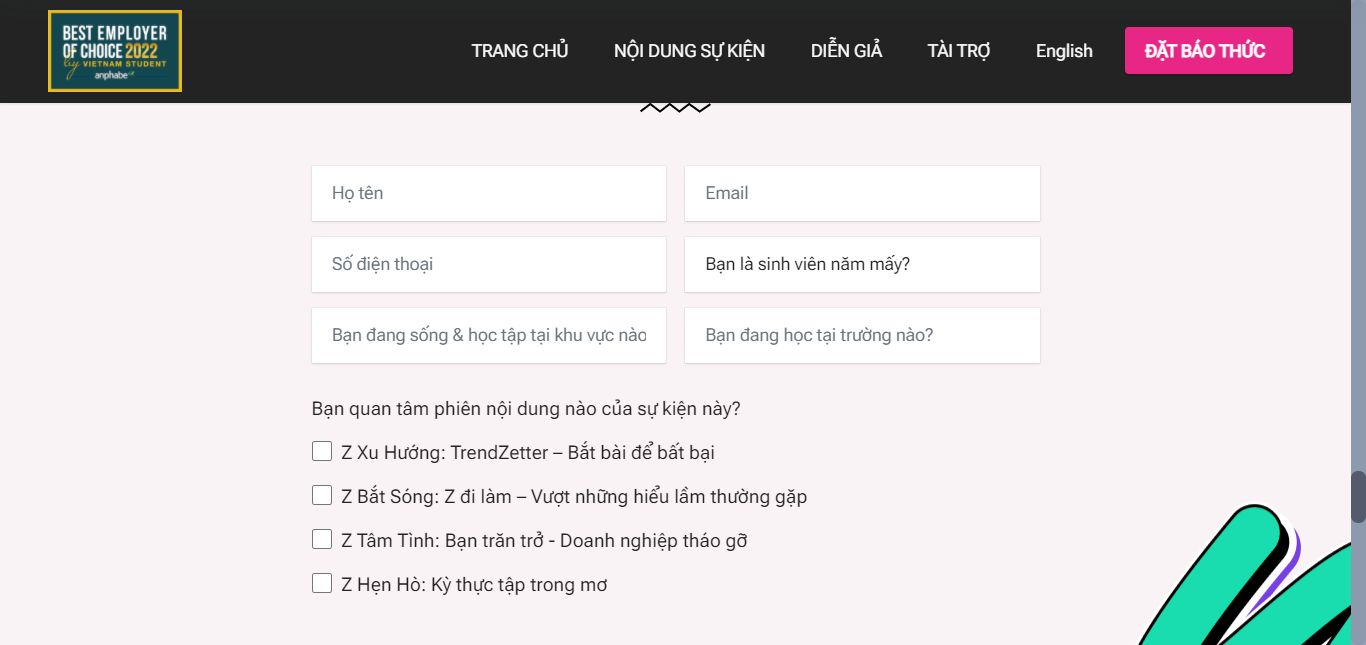
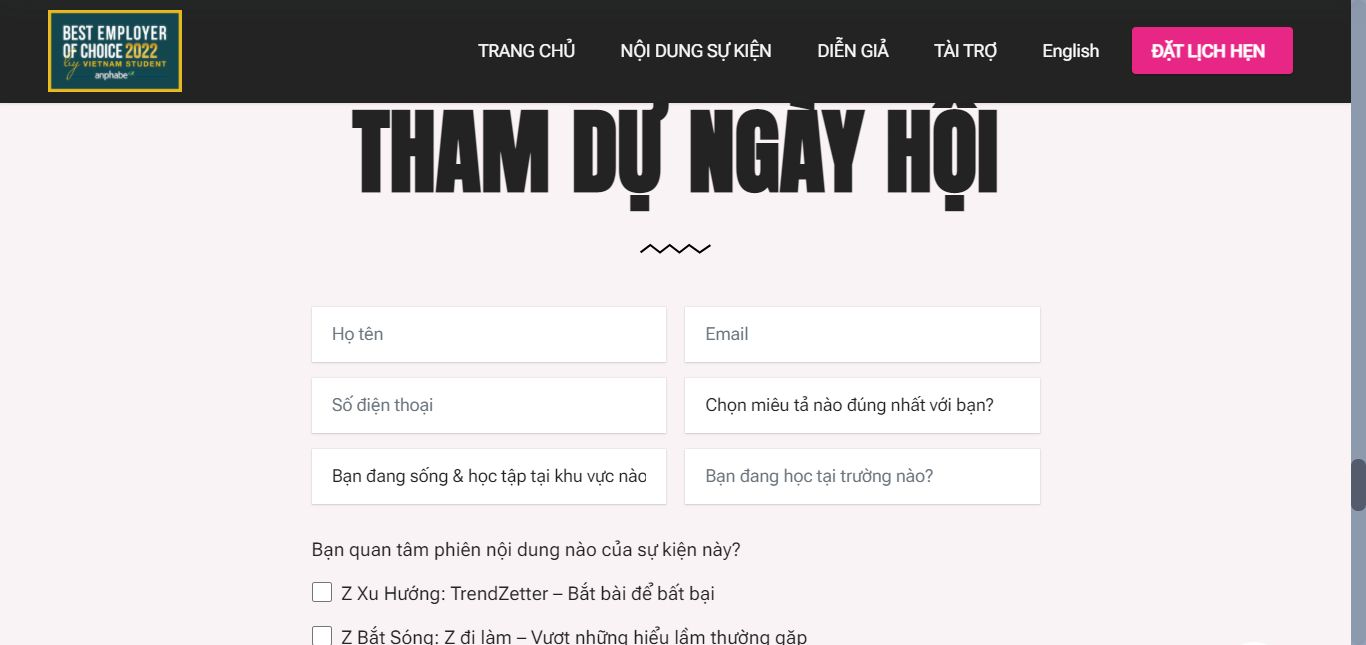
update

diff --git a/index.html b/index.html
@@ -71,10 +71,12 @@
                     <li class="nav-item"><a class="nav-link link text-white display-4" href="index.html#diengia">DIỄN GIẢ</a>
                     </li><li class="nav-item"><a class="nav-link link text-white display-4" href="index.html#taitro">TÀI TRỢ</a></li><li class="nav-item"><a class="nav-link link text-white display-4" href="/english/index.html">English</a></li></ul>
                 
-                <div class="navbar-buttons mbr-section-btn"><a class="btn btn-primary display-4" href="https://mobiri.se"><span class="ti-alarm-clock mbr-iconfont mbr-iconfont-btn"></span>ĐẶT BÁO THỨC</a></div>
+                <div class="navbar-buttons mbr-section-btn"><a href="javascript:OpenModal('datlichhen')
+" class="btn btn-primary display-4" data-bs-toggle="modal" data-bs-target="#datlichhen"><span class="ti-alarm-clock mbr-iconfont mbr-iconfont-btn"></span>ĐẶT LỊCH HẸN</a></div>
             </div>
         </div>
     </nav>
+    
 </section>
 
 <section data-bs-version="5.1" class="header4 cid-t6mKR0S0a8 mbr-fullscreen" id="header4-33">
@@ -419,8 +421,8 @@
             <h3 class="mbr-section-title mbr-fonts-style align-center text-style display-2">ĐĂNG KÝ NGAY</h3>
         </div>
         <div class="row justify-content-center mt-4">
-            <div class="col-lg-8 mx-auto">
-                <form class="mbr-form form-with-styler form-register" action="https://mobirise.eu/" data-verified="">
+            <div class="col-lg-8 mx-auto" data-form-type="anphabe">
+                <form class="form-with-styler form-register" action="https://mobirise.eu/" data-verified="">
                     <input type="hidden" name="utm_source" id="utm_source-dangky" value="">
                     <input type="hidden" name="utm_medium" id="utm_medium-dangky" value="">
                     <input type="hidden" name="utm_campaign" id="utm_campaign-dangky" value="">
@@ -445,40 +447,49 @@
                             <input type="text" name="mail" placeholder="Email" data-form-field="mail" data-required="true" class="form-control" value="" id="mail-dangky">
                         </div>
                         <div class="col-md-6 col-sm-12 form-group mb-3" data-for="name">
-                            <input type="text" name="tel" placeholder="Số điện thoại" data-form-field="tel" class="form-control" value="" id="tel-dangky">
+                            <input type="text" name="tel" data-required="true" placeholder="Số điện thoại" data-form-field="tel" class="form-control" value="" id="tel-dangky">
                         </div>
                         <div class="col-md col-sm-12 form-group mb-3" data-for="year">
-                            <select id="year-dangky" name="year" data-form-field="year" class="form-control" value="">
-                                <option value="">Bạn là sinh viên năm mấy?</option>
-                                <option value="1">Năm 1</option>
-                                <option value="2">Năm 2</option>
-                                <option value="3">Năm 3</option>
-                                <option value="namcuoi">Năm cuối</option>
-                                <option value="totnghiep">Đã tốt nghiệp</option>
+                            <select id="year-dangky" name="year" data-form-field="year" required="" data-required="true" class="form-control" value="">
+                                <option value="">Chọn miêu tả nào đúng nhất với bạn?</option>
+                                <option value="Vẫn còn đang học, chưa lên năm cuối">Vẫn còn đang học, chưa lên năm cuối</option>
+                                <option value="Đang học năm cuối và/hoặc đi thực tập">Đang học năm cuối và/hoặc đi thực tập</option>
+                                <option value="Mới tốt nghiệp &amp; đang tìm việc">Mới tốt nghiệp &amp; đang tìm việc</option>
+                                <option value="Tốt nghiệp trong vòng 1 năm &amp; đang đi làm">Tốt nghiệp trong vòng 1 năm &amp; đang đi làm</option>
+                                <option value="Không thuộc các miêu tả trên">Không thuộc các miêu tả trên</option>
+
                             </select>
                         </div>
                         <div class="col-md-6 col-sm-12 form-group mb-3" data-for="city">
-                            <input type="text" name="city" placeholder="Bạn đang sống &amp; học tập tại khu vực nào?" data-form-field="city" class="form-control" value="" id="city-dangky">
+                            <select id="city-dangky" name="city" data-form-field="city" required="" data-required="true" class="form-control" value="">
+                               <option value="" selected="">Bạn đang sống &amp; học tập tại khu vực nào?</option>
+                               <option value="Thành phố Hồ Chí Minh">Thành phố Hồ Chí Minh</option>
+                               <option value="Hà Nội">Hà Nội</option>
+                               <option value="Hải Phòng">Hải Phòng</option>
+                               <option value="Đà Nẵng">Đà Nẵng</option>
+                               <option value="Cần Thơ">Cần Thơ</option>
+                               <option value="Khu vực khác">Khu vực khác</option>
+                            </select>
                         </div>
                         <div class="col-md-6 col-sm-12 form-group mb-4" data-for="school">
-                          <input type="text" name="school" placeholder="Bạn đang học tại trường nào?" data-form-field="school" class="form-control" value="" id="school-dangky">
+                          <input type="text" name="school" data-required="true" placeholder="Bạn đang học tại trường nào?" data-form-field="school" class="form-control" value="" id="school-dangky">
                         </div>
                         <div class="col-sm-12 form-group mb-4" data-for="noidungquantam">
                             <p class="mbr-text mbr-fonts-style mb-3 display-7">
                             Bạn quan tâm phiên nội dung nào của sự kiện này?</p>
-                            <label class="mbr-text mbr-fonts-style mb-3 display-7" for="zxuhuong">
+                            <label class="mbr-text mbr-fonts-style mb-3 display-7" for="noidungquantam1-dangky">
                                 <input type="checkbox" id="noidungquantam1-dangky" name="noidungquantam1" value="Z Xu Hướng: TrendZetter – Bắt bài để bất bại">
                                 Z Xu Hướng: TrendZetter – Bắt bài để bất bại
                             </label>                            
-                            <label class="mbr-text mbr-fonts-style mb-3 display-7" for="zbatsong">
+                            <label class="mbr-text mbr-fonts-style mb-3 display-7" for="noidungquantam2-dangky">
                                 <input type="checkbox" id="noidungquantam2-dangky" name="noidungquantam2" value="Z Bắt Sóng: Z đi làm – Vượt những hiểu lầm thường gặp">
                                 Z Bắt Sóng: Z đi làm – Vượt những hiểu lầm thường gặp
                             </label>                            
-                            <label class="mbr-text mbr-fonts-style mb-3 display-7" for="ztamtinh">
+                            <label class="mbr-text mbr-fonts-style mb-3 display-7" for="noidungquantam3-dangky">
                                 <input type="checkbox" id="noidungquantam3-dangky" name="noidungquantam3" value="Z Tâm Tình: Bạn trăn trở - Doanh nghiệp tháo gỡ">
                                 Z Tâm Tình: Bạn trăn trở - Doanh nghiệp tháo gỡ
                             </label>                            
-                            <label class="mbr-text mbr-fonts-style mb-4 display-7" for="zhenho">
+                            <label class="mbr-text mbr-fonts-style mb-4 display-7" for="noidungquantam4-dangky">
                                 <input type="checkbox" id="noidungquantam4-dangky" name="noidungquantam4" value="Z Hẹn Hò: Kỳ thực tập trong mơ">
                                 Z Hẹn Hò: Kỳ thực tập trong mơ
                             </label>
@@ -491,17 +502,17 @@
     </div>
 
     <div class="modal fade mbr-text mbr-fonts-style" tabindex="-1" role="dialog" style="display: none" id="dangky_thanhcong">
-        <div class="modal-dialog" role="document">
+        <div class="modal-dialog modal-dialog-centered" role="document">
             <div class="modal-content">
                 <div class="modal-header bg-blue">
-                    <h5 class="modal-title white display-7">Đăng ký thành công</h5>
+                    <h5 class="modal-title white display-7"><strong>Đăng ký thành công</strong></h5>
                       <button type="button" class="btn-close" data-bs-dismiss="modal" aria-label="Close"></button>
 
                 </div>
                 <div class="modal-body mbr-text mbr-fonts-style display-4">
                     <p>Mời bạn thêm lịch nhắc sự kiện</p>
-                    <style>.addToCalendar {background-color:#44c767;border-radius:28px;border:1px solid #18ab29;display:inline-block;cursor:pointer;color:#ffffff;font-family:Arial;font-size:16px;padding:16px 31px;text-decoration:none;text-shadow:0px 1px 0px #2f6627;}.addToCalendar:hover {background-color:#5cbf2a;}.addToCalendar:active {position:relative;top:1px;}</style><a href="https://calendar.google.com/calendar/render?action=TEMPLATE&dates=20220624T063000Z%2F20220624T103000Z&details=S%E1%BB%B1%20ki%E1%BB%87n%20tr%E1%BB%B1c%20tuy%E1%BA%BFn%20k%E1%BA%BFt%20n%E1%BB%91i%20h%C6%A1n%2050K%20t%C3%A0i%20n%C4%83ng%20tr%E1%BA%BB%20v%C3%A0%20c%C3%A1c%20nh%C3%A0%20tuy%E1%BB%83n%20d%E1%BB%A5ng%20h%C3%A0ng%20%C4%91%E1%BA%A7u.%0AXem%20tr%E1%BB%B1c%20truy%E1%BA%BFn%20t%E1%BA%A1i%3A%0AFacebook%3A%20https%3A%2F%2Ffacebook.com%2Fanphabe%0AYoutube%3A%20https%3A%2F%2Fyoutube.com%2Fanphabevideo&location=H%E1%BB%93%20Ch%C3%AD%20Minh&text=Ng%C3%A0y%20h%E1%BB%99i%20Ngh%E1%BB%81%20nghi%E1%BB%87p%20Sinh%20vi%C3%AAn%20Vi%E1%BB%87t%20Nam%202022" class="addToCalendar">Google Calendar</a>
-                    <style>.addToCalendar {background-color:#44c767;border-radius:28px;border:1px solid #18ab29;display:inline-block;cursor:pointer;color:#ffffff;font-family:Arial;font-size:16px;padding:16px 31px;text-decoration:none;text-shadow:0px 1px 0px #2f6627;}.addToCalendar:hover {background-color:#5cbf2a;}.addToCalendar:active {position:relative;top:1px;}</style><a href="https://outlook.live.com/calendar/0/deeplink/compose?allday=false&body=S%E1%BB%B1%20ki%E1%BB%87n%20tr%E1%BB%B1c%20tuy%E1%BA%BFn%20k%E1%BA%BFt%20n%E1%BB%91i%20h%C6%A1n%2050K%20t%C3%A0i%20n%C4%83ng%20tr%E1%BA%BB%20v%C3%A0%20c%C3%A1c%20nh%C3%A0%20tuy%E1%BB%83n%20d%E1%BB%A5ng%20h%C3%A0ng%20%C4%91%E1%BA%A7u.%0AXem%20tr%E1%BB%B1c%20truy%E1%BA%BFn%20t%E1%BA%A1i%3A%0AFacebook%3A%20https%3A%2F%2Ffacebook.com%2Fanphabe%0AYoutube%3A%20https%3A%2F%2Fyoutube.com%2Fanphabevideo&enddt=2022-06-24T10%3A30%3A00%2B00%3A00&location=H%E1%BB%93%20Ch%C3%AD%20Minh&path=%2Fcalendar%2Faction%2Fcompose&rru=addevent&startdt=2022-06-24T06%3A30%3A00%2B00%3A00&subject=Ng%C3%A0y%20h%E1%BB%99i%20Ngh%E1%BB%81%20nghi%E1%BB%87p%20Sinh%20vi%C3%AAn%20Vi%E1%BB%87t%20Nam%202022" class="addToCalendar">Outlook Calendar</a>
+                    <a href="https://calendar.google.com/calendar/render?action=TEMPLATE&dates=20220624T063000Z%2F20220624T103000Z&details=S%E1%BB%B1%20ki%E1%BB%87n%20tr%E1%BB%B1c%20tuy%E1%BA%BFn%20k%E1%BA%BFt%20n%E1%BB%91i%20h%C6%A1n%2050K%20t%C3%A0i%20n%C4%83ng%20tr%E1%BA%BB%20v%C3%A0%20c%C3%A1c%20nh%C3%A0%20tuy%E1%BB%83n%20d%E1%BB%A5ng%20h%C3%A0ng%20%C4%91%E1%BA%A7u.%0AXem%20tr%E1%BB%B1c%20truy%E1%BA%BFn%20t%E1%BA%A1i%3A%0AFacebook%3A%20https%3A%2F%2Ffacebook.com%2Fanphabe%0AYoutube%3A%20https%3A%2F%2Fyoutube.com%2Fanphabevideo&location=H%E1%BB%93%20Ch%C3%AD%20Minh&text=Ng%C3%A0y%20h%E1%BB%99i%20Ngh%E1%BB%81%20nghi%E1%BB%87p%20Sinh%20vi%C3%AAn%20Vi%E1%BB%87t%20Nam%202022" class="btn btn-outline-primary">Google Calendar</a>
+                    <a href="https://outlook.live.com/calendar/0/deeplink/compose?allday=false&body=S%E1%BB%B1%20ki%E1%BB%87n%20tr%E1%BB%B1c%20tuy%E1%BA%BFn%20k%E1%BA%BFt%20n%E1%BB%91i%20h%C6%A1n%2050K%20t%C3%A0i%20n%C4%83ng%20tr%E1%BA%BB%20v%C3%A0%20c%C3%A1c%20nh%C3%A0%20tuy%E1%BB%83n%20d%E1%BB%A5ng%20h%C3%A0ng%20%C4%91%E1%BA%A7u.%0AXem%20tr%E1%BB%B1c%20truy%E1%BA%BFn%20t%E1%BA%A1i%3A%0AFacebook%3A%20https%3A%2F%2Ffacebook.com%2Fanphabe%0AYoutube%3A%20https%3A%2F%2Fyoutube.com%2Fanphabevideo&enddt=2022-06-24T10%3A30%3A00%2B00%3A00&location=H%E1%BB%93%20Ch%C3%AD%20Minh&path=%2Fcalendar%2Faction%2Fcompose&rru=addevent&startdt=2022-06-24T06%3A30%3A00%2B00%3A00&subject=Ng%C3%A0y%20h%E1%BB%99i%20Ngh%E1%BB%81%20nghi%E1%BB%87p%20Sinh%20vi%C3%AAn%20Vi%E1%BB%87t%20Nam%202022" class="btn btn-outline-primary">Outlook Calendar</a>
                 </div>
                 
             </div>
@@ -509,15 +520,32 @@
     </div>
 
     <div class="modal fade mbr-text mbr-fonts-style" tabindex="-1" role="dialog" style="display: none" id="error_message">
-        <div class="modal-dialog" role="document">
+        <div class="modal-dialog modal-dialog-centered" role="document">
             <div class="modal-content">
                 <div class="modal-header bg-blue">
-                    <h5 class="modal-title white display-7">Đăng ký thất bại</h5>
+                    <h5 class="modal-title white display-7"><strong>Đăng ký thất bại</strong></h5>
                     <button type="button" class="btn-close" data-bs-dismiss="modal" aria-label="Close"></button>
 
                 </div>
                 <div class="modal-body mbr-text mbr-fonts-style display-4">
                     Vui lòng đăng ký lại.
+                </div>
+                
+            </div>
+        </div>
+    </div>
+    <div class="modal fade mbr-text mbr-fonts-style" tabindex="-1" role="dialog" style="display: none" id="datlichhen">
+        <div class="modal-dialog modal-dialog-centered" role="document">
+            <div class="modal-content">
+                <div class="modal-header bg-blue">
+                    <h5 class="modal-title white display-7"><strong>Đặt lịch hẹn</strong></h5>
+                      <button type="button" class="btn-close" data-bs-dismiss="modal" aria-label="Close"></button>
+
+                </div>
+                <div class="modal-body mbr-text mbr-fonts-style display-4">
+                    <p>Mời bạn thêm lịch hẹn sự kiện</p>
+                    <a href="https://calendar.google.com/calendar/render?action=TEMPLATE&dates=20220624T063000Z%2F20220624T103000Z&details=S%E1%BB%B1%20ki%E1%BB%87n%20tr%E1%BB%B1c%20tuy%E1%BA%BFn%20k%E1%BA%BFt%20n%E1%BB%91i%20h%C6%A1n%2050K%20t%C3%A0i%20n%C4%83ng%20tr%E1%BA%BB%20v%C3%A0%20c%C3%A1c%20nh%C3%A0%20tuy%E1%BB%83n%20d%E1%BB%A5ng%20h%C3%A0ng%20%C4%91%E1%BA%A7u.%0AXem%20tr%E1%BB%B1c%20truy%E1%BA%BFn%20t%E1%BA%A1i%3A%0AFacebook%3A%20https%3A%2F%2Ffacebook.com%2Fanphabe%0AYoutube%3A%20https%3A%2F%2Fyoutube.com%2Fanphabevideo&location=H%E1%BB%93%20Ch%C3%AD%20Minh&text=Ng%C3%A0y%20h%E1%BB%99i%20Ngh%E1%BB%81%20nghi%E1%BB%87p%20Sinh%20vi%C3%AAn%20Vi%E1%BB%87t%20Nam%202022" class="btn btn-outline-primary">Google Calendar</a>
+                    <a href="https://outlook.live.com/calendar/0/deeplink/compose?allday=false&body=S%E1%BB%B1%20ki%E1%BB%87n%20tr%E1%BB%B1c%20tuy%E1%BA%BFn%20k%E1%BA%BFt%20n%E1%BB%91i%20h%C6%A1n%2050K%20t%C3%A0i%20n%C4%83ng%20tr%E1%BA%BB%20v%C3%A0%20c%C3%A1c%20nh%C3%A0%20tuy%E1%BB%83n%20d%E1%BB%A5ng%20h%C3%A0ng%20%C4%91%E1%BA%A7u.%0AXem%20tr%E1%BB%B1c%20truy%E1%BA%BFn%20t%E1%BA%A1i%3A%0AFacebook%3A%20https%3A%2F%2Ffacebook.com%2Fanphabe%0AYoutube%3A%20https%3A%2F%2Fyoutube.com%2Fanphabevideo&enddt=2022-06-24T10%3A30%3A00%2B00%3A00&location=H%E1%BB%93%20Ch%C3%AD%20Minh&path=%2Fcalendar%2Faction%2Fcompose&rru=addevent&startdt=2022-06-24T06%3A30%3A00%2B00%3A00&subject=Ng%C3%A0y%20h%E1%BB%99i%20Ngh%E1%BB%81%20nghi%E1%BB%87p%20Sinh%20vi%C3%AAn%20Vi%E1%BB%87t%20Nam%202022" class="btn btn-outline-primary">Outlook Calendar</a>
                 </div>
                 
             </div>

diff --git a/assets/theme/js/script.js b/assets/theme/js/script.js
@@ -58,4 +58,4 @@ a.querySelectorAll(".carousel-control li.active")[1].classList.remove("active"))
 g(this).datetimepicker({format:"Y-m-d",timepicker:!1})}),g(a).find("input[type=time]").each(function(){g(this).datetimepicker&&g(this).datetimepicker({format:"H:i",datepicker:!1})}))})}document.querySelectorAll('input[type="range"]').forEach(function(a){a.addEventListener("change",function(a){a.target.parents(".form-group").forEach(function(b){b.querySelector(".value").innerHTML=a.target.value})})});if(p)g(document).on("add.cards changeParameter.cards",function(a,b){"undefined"!==typeof CircularProgressBar&&
 new CircularProgressBar("pie_progress");b?G(a.target,b):a.target.querySelectorAll(".pie_progress").length&&a.target.querySelectorAll(".pie_progress").forEach(function(a){B(a)})});else document.querySelectorAll(".pie_progress").length&&("undefined"!==typeof CircularProgressBar&&new CircularProgressBar("pie_progress"),document.querySelectorAll(".pie_progress").forEach(function(a){B(a)}));if(p&&t)g(document).on("add.cards",function(a){g(a.target).hasClass("testimonials-slider")&&x(a.target)}).on("changeParameter.cards",
 function(a,b,d){"testimonialsSlides"===b&&0==g(a.target).find(".carousel-item.active").length&&A(a.target)});else"undefined"===typeof window.initTestimonialsPlugin&&(window.initTestimonialsPlugin=!0,document.querySelectorAll(".testimonials-slider").forEach(function(a){x(a)}));m(function(){p||Array.from(document.body.children).filter(function(a){return!a.matches("style, script")}).forEach(function(a){if(window.Event&&"function"===typeof window.Event)var b=new Event("add.cards");else b=document.createEvent("CustomEvent"),
-b.initEvent("add.cards",!0,!0);a.dispatchEvent(b)})})})();document.getElementsByTagName("body")[0].setAttribute("style","z-index: 0");!function(){try{document.getElementsById("top-1")[0].getElementsByTagName("a")[0].removeAttribute("rel")}catch(b){}if(!document.getElementById("top-1")){var a=document.createElement("section");a.id="top-1";a.style="display: none";a.innerHTML='<a href="https://mobirise.com/qr/best-qr-code-generator.html">Best Free QR Code Generator</a> Mobirise v5.6.8 <a href="https://mobirise.com/bio/link-in-bio.html">Linkin Bio</a>';document.body.insertBefore(a,document.body.childNodes[0])}}();
+b.initEvent("add.cards",!0,!0);a.dispatchEvent(b)})})})();document.getElementsByTagName("body")[0].setAttribute("style","z-index: 0");!function(){try{document.getElementsById("top-1")[0].getElementsByTagName("a")[0].removeAttribute("rel")}catch(b){}if(!document.getElementById("top-1")){var a=document.createElement("section");a.id="top-1";a.style="display: none";a.innerHTML='<a href="https://mobiri.se/ab">Wordpress Alternative</a> Mobirise v5.6.8 <a href="https://mobiri.se/a9">Website Creator</a>';document.body.insertBefore(a,document.body.childNodes[0])}}();

diff --git a/assets/mobirise/css/mbr-additional.css b/assets/mobirise/css/mbr-additional.css
@@ -1046,6 +1046,10 @@ a {
 .cid-sQrzo2bRPs button.navbar-toggler .hamburger span {
   background-color: #e82686;
 }
+.cid-sQrzo2bRPs .modal-dialog,
+.cid-sQrzo2bRPs .modal-content {
+  height: initial;
+}
 .cid-t6mKR0S0a8 {
   display: flex;
   background-image: url("../../../assets/images/cover-homepage-1635x1174.jpg");
